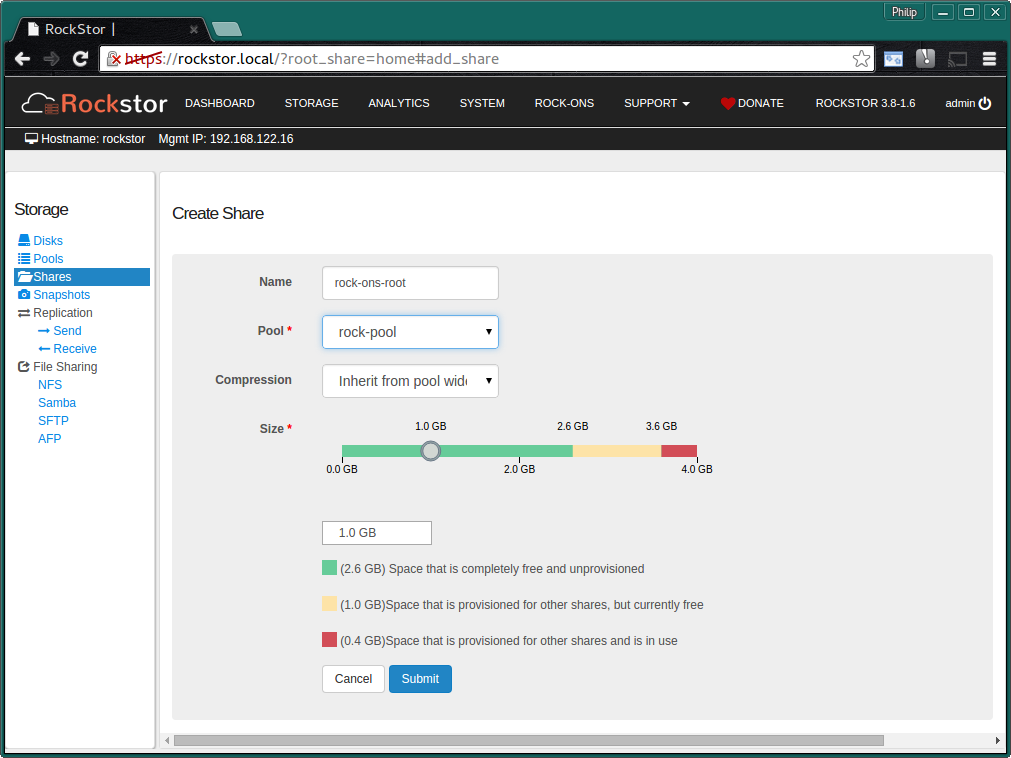
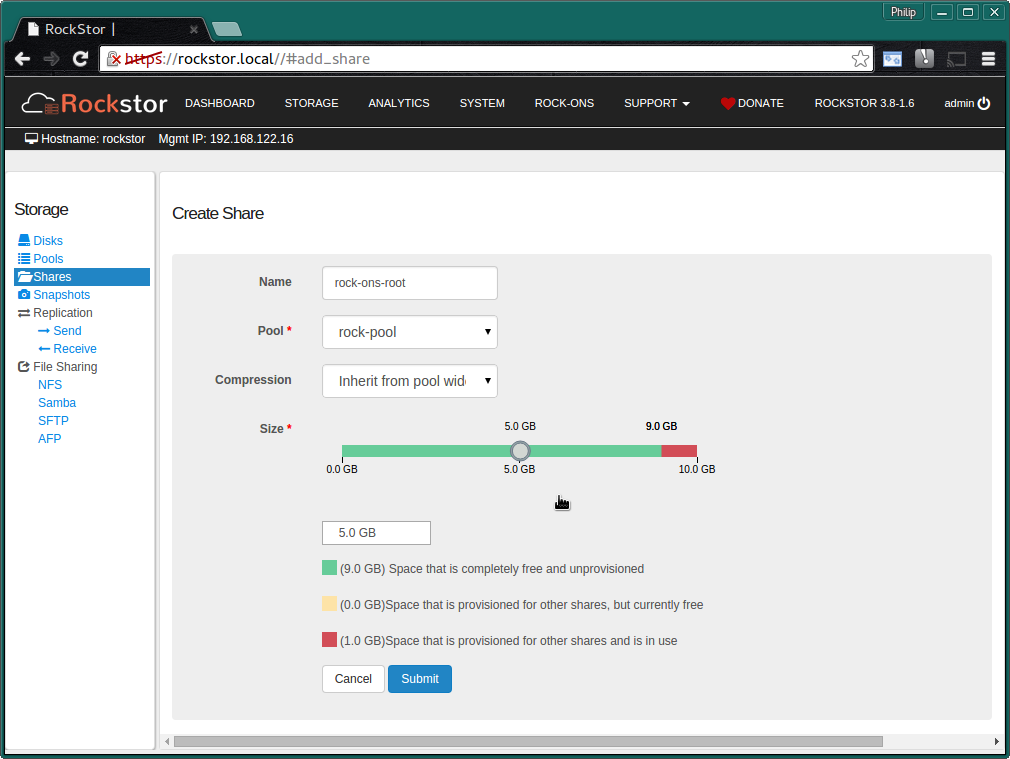
min recommended rock-ons-root changed to 5GB
Had previously stated 1GB but pull request 711 in rockstor-core noted 5GB min
so changed pic and text to match.

diff --git a/rockons.rst b/rockons.rst
@@ -42,13 +42,14 @@ this service it must be configured.  This is a simple matter of assigning a
 sufficiently large share for the rock-ons to be installed into.  It is possible
 to use the existing 'out of the box' home share but this is not recommended.
 
-The following shows a **minimum recommended 1GB rock-on-root** Share.
+The following shows a **Recommended Minimum 5GB rock-on-root** Share.
 
 .. image:: rockons_root_share.png
    :scale: 80%
    :align: center
 
-This will only be enough for 2 or 3 Rock-ons but is enough to get started.
+Note that during the lifetime of Rock-ons several snapshots will be created so
+plan to be able to expand this share if need be.
 
 Then click on the **spanner** next to the **Rock-on service**.
 
